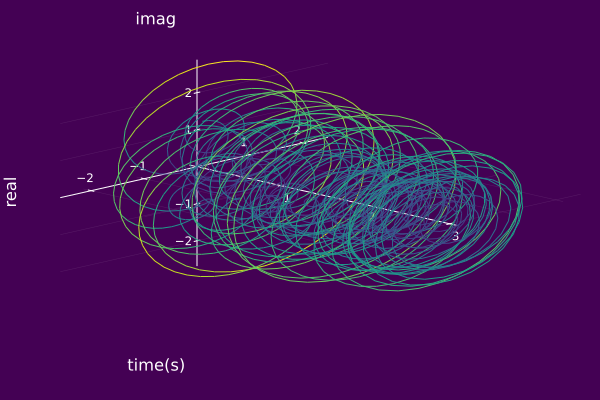
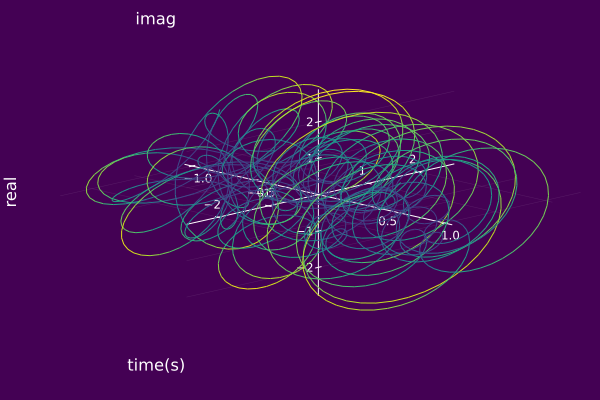
updated AMFMmodel example

Changed region(s): [[0.12, 0.15, 0.9, 0.78], [0.9, 0.42, 0.93, 0.54], [0.24, 0.21, 0.27, 0.24]]

diff --git a/docs/src/basicModels/Fourier.md b/docs/src/basicModels/Fourier.md
@@ -158,9 +158,9 @@ $\mathscr{S}=\left\{\cdots,\mathscr{C}_{-1},\mathscr{C}_0,\mathscr{C}_1,\cdots\r
 
 where
 
-$a_k = \mathrm{abs}\left(\frac{1-e^{-jk2π/3}-e^{j2π/3}e^{-jk4π/3}+e^{j2π/3}e^{-jk2π/3}-e^{j4π3}e^{-jk2π}+e^{j4π/3}e^{-jk4π/3}}{jk2π}\right)~~~\mathrm{and}~~~\\
+$a_k = \mathrm{abs}\left(\frac{1-\mathrm{e}^{-\mathrm{j}k2π/3}-\mathrm{e}^{\mathrm{j}2π/3}\mathrm{e}^{-\mathrm{j}k4π/3}+\mathrm{e}^{\mathrm{j}2π/3}\mathrm{e}^{-\mathrm{j}k2π/3}-\mathrm{e}^{\mathrm{j}4π3}\mathrm{e}^{-\matrm{j}k2π}+\mathrm{e}^{\mathrm{j}4π/3}\mathrm{e}^{-\mathrm{j}k4π/3}}{\mathrm{j}k2π}\right)~~~\mathrm{and}~~~\\
 
-\phi_k= \mathrm{arg}\left(\frac{1-e^{-jk2π/3}-e^{j2π/3}e^{-jk4π/3}+e^{j2π/3}e^{-jk2π/3}-e^{j4π3}e^{-jk2π}+e^{j4π/3}e^{-jk4π/3}}{jk2π}\right).$
+\phi_k= \mathrm{arg}\left(\frac{1-\mathrm{e}^{-\mathrm{j}k2π/3}-\mathrm{e}^{\mathrm{j}2π/3}\mathrm{e}^{-\mathrm{j}k4π/3}+\mathrm{e}^{\mathrm{j}2π/3}\mathrm{e}^{-\mathrm{j}k2π/3}-\mathrm{e}^{\mathrm{j}4π3}\mathrm{e}^{-\matrm{j}k2π}+\mathrm{e}^{\mathrm{j}4π/3}\mathrm{e}^{-\mathrm{j}k4π/3}}{\mathrm{j}k2π}\right).$
 
 For a this choice of parameters of the component set, we have the following Argand Diagram for $z(t;\mathscr{S})$, 3D IS $\mathcal{S}(t,\omega,s;\mathscr{S})$, and 2D IS $\mathcal{S}(t,\omega;\mathscr{S})$. Keep in mind, we are only considering a finite number of components $k = 0,\pm 1,\pm 2,\ldots,K$ not $k = 0,\pm 1,\pm2,\ldots,\pm\infty$.
 

diff --git a/docs/src/basicModels/AMFM.md b/docs/src/basicModels/AMFM.md
@@ -34,7 +34,7 @@ using ISA, Plots
 𝐶₂ = AMFMtriplet(t->0.8*cos(11t),t->100 + 70.5*sin(5t),π)
 𝑆 = compSet([𝐶₀,𝐶₁,𝐶₂])
 z = AMFMmodel(𝑆)
-plot(z; timeaxis=0.0:0.001:3.0)
+plot(z; timeaxis=-1.0:0.001:1.0)
 ```
 ![](https://raw.githubusercontent.com/NMSU-ISA/ISA/master/docs/src/assets/IS_exAMFMmodel1.png)
 
@@ -75,7 +75,7 @@ using ISA, Plots
 𝐶₂ = AMFMtriplet(t->sin(11t),t->250,0.0)
 𝑆 = compSet([𝐶₀,𝐶₁,𝐶₂])
 z = AMFMmodel(𝑆)
-plot(z; timeaxis=0.0:0.001:3.0)
+plot(z; timeaxis=-1.0:0.001:1.0)
 ```
 ![](https://raw.githubusercontent.com/NMSU-ISA/ISA/master/docs/src/assets/IS_exAMFMmodel4.png)
 
@@ -116,7 +116,7 @@ using ISA, Plots
 𝐶₂ = AMFMtriplet(t->10t,t->5cos(50t),0.0)
 𝑆 = compSet([𝐶₀,𝐶₁,𝐶₂])
 z = AMFMmodel(𝑆)
-plot(z; timeaxis=0.0:0.001:3.0)
+plot(z; timeaxis=-1.0:0.001:1.0)
 ```
 ![](https://raw.githubusercontent.com/NMSU-ISA/ISA/master/docs/src/assets/IS_exAMFMmodel7.png)
 
